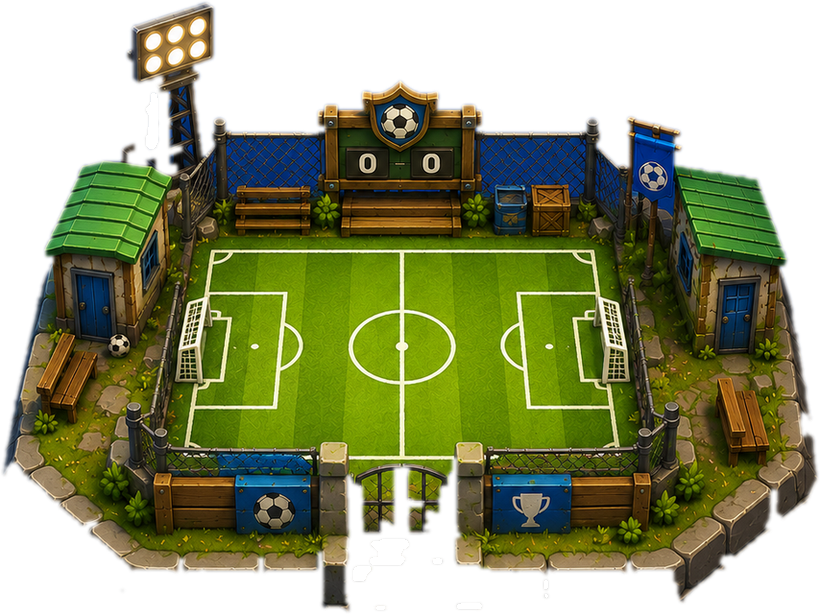
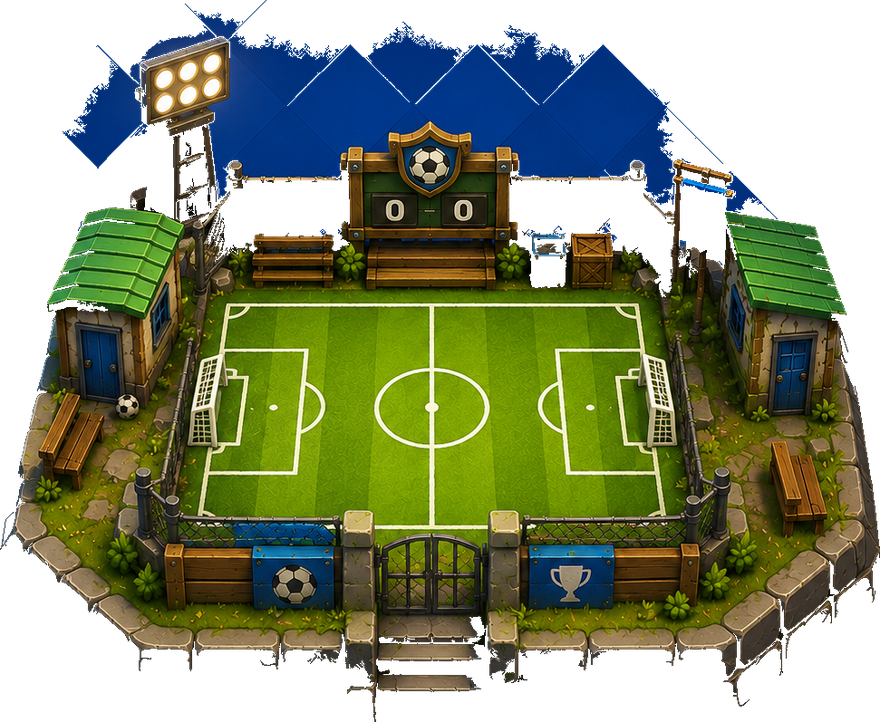
Emote square frame + arenas re-cut from individual source renders (no cuts)
- Emotes: animated (lottie) emotes keep their frame but it's now SQUARE (not the
  round pill) and still caption-free — restores the frame I'd wrongly removed.
- Arenas: found the original individual full renders (crossover1-7 on Desktop =
  the source of the in-game blue arenas) and cut each cleanly (edge-flood, FULL
  content bbox — no side/bottom clipping). Mapped to tiers by image similarity
  (mahalle..goat = c1..c7). Magenta-verified: front walls, gates and bottom
  ground all intact, no transparency holes. Same art, complete.

diff --git a/app/src/screens.tsx b/app/src/screens.tsx
@@ -897,8 +897,8 @@ function EmoteLayer({ state, actions, fab = 'top-right', hideFab, externalOpen, 
                   style={{ alignItems: 'center', width: 72 }}
                 >
                   <View style={{
-                    width: 70, height: 70, borderRadius: 35, backgroundColor: theme.bg,
-                    borderWidth: 2.5, borderColor: e.color, alignItems: 'center', justifyContent: 'center',
+                    width: 70, height: 70, borderRadius: e.kind === 'lottie' ? 14 : 35, backgroundColor: theme.bg,
+                    borderWidth: 2.5, borderColor: e.color, alignItems: 'center', justifyContent: 'center', overflow: 'hidden',
                   }}>
                     <EmoteSticker id={e.id} size={56} />
                   </View>
@@ -1973,9 +1973,9 @@ function ThoughtBubble({ emoteId, emoteN, position }: { emoteId?: string; emoteN
       opacity: op, transform: [{ scale }], zIndex: 50,
       alignItems: 'flex-end',
     }}>
-      {/* Main bubble */}
+      {/* Main bubble — square frame for animated (lottie) emotes, rounded otherwise */}
       <View style={{
-        backgroundColor: theme.card, borderRadius: 18, borderWidth: 1.5, borderColor: theme.border,
+        backgroundColor: theme.card, borderRadius: getEmote(currentEmote)?.kind === 'lottie' ? 12 : 18, borderWidth: 1.5, borderColor: theme.border,
         paddingHorizontal: 8, paddingVertical: 6, minWidth: 60, alignItems: 'center',
         shadowColor: '#000', shadowOpacity: 0.3, shadowRadius: 8, shadowOffset: { width: 0, height: 4 }, elevation: 8,
       }}>

diff --git a/app/src/emotes.tsx b/app/src/emotes.tsx
@@ -593,9 +593,14 @@ export function EmoteCallout({ id, size = 88 }: { id: string; size?: number }) {
   const meta = getEmote(id);
   const caption = useMemo(() => meta?.phrase ?? '', [meta]);
   if (!meta) return null;
-  // Animated (Lottie) emotes are shown as JUST the animation — no card, no caption.
+  // Animated (Lottie) emotes: keep the frame but make it SQUARE (not the rounded
+  // pill), and show NO caption — just the looping animation inside.
   if (meta.kind === 'lottie') {
-    return <EmoteSticker id={id} size={Math.round(size * 1.3)} />;
+    return (
+      <View style={[styles.callout, { borderRadius: 16, paddingVertical: 8, paddingHorizontal: 8, borderWidth: 1.5, borderColor: meta.color }]}>
+        <EmoteSticker id={id} size={size} />
+      </View>
+    );
   }
   return (
     <View style={styles.callout}>
